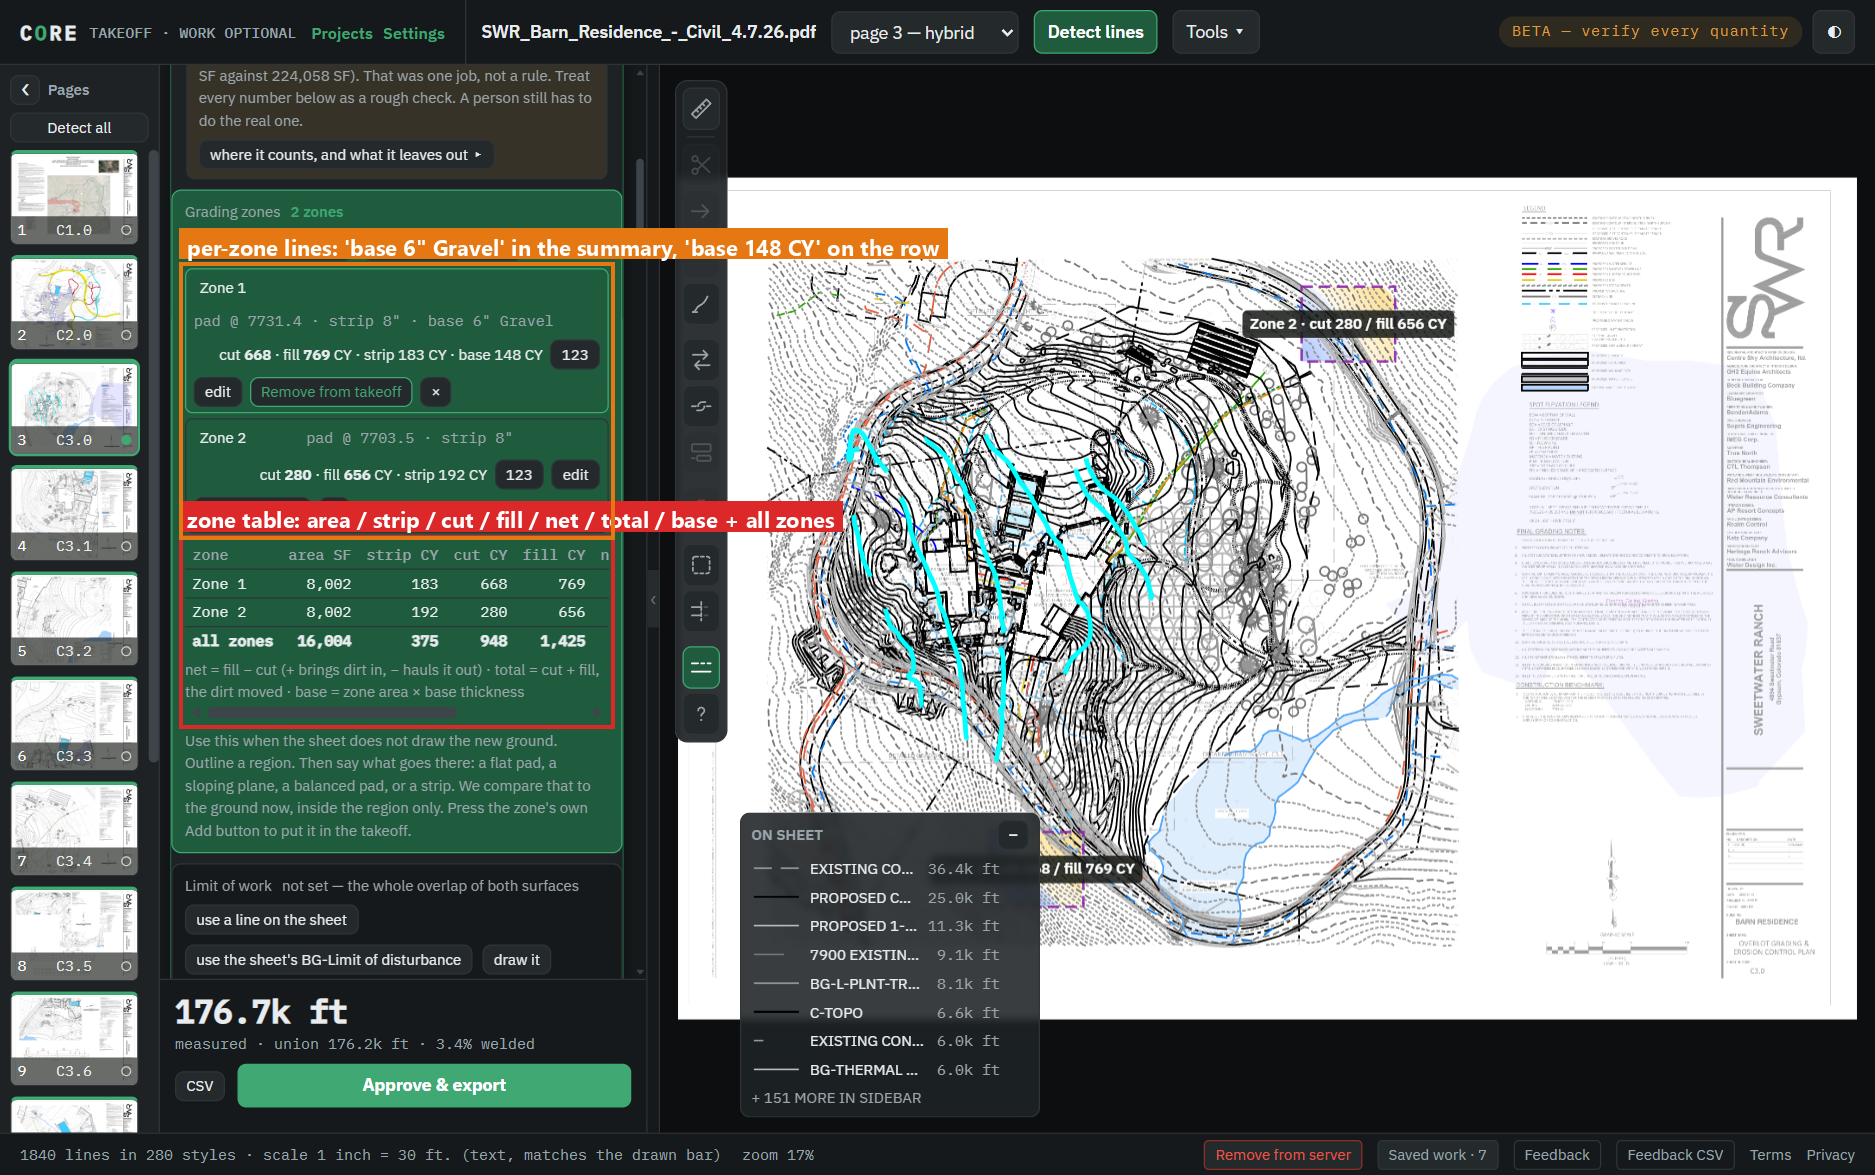
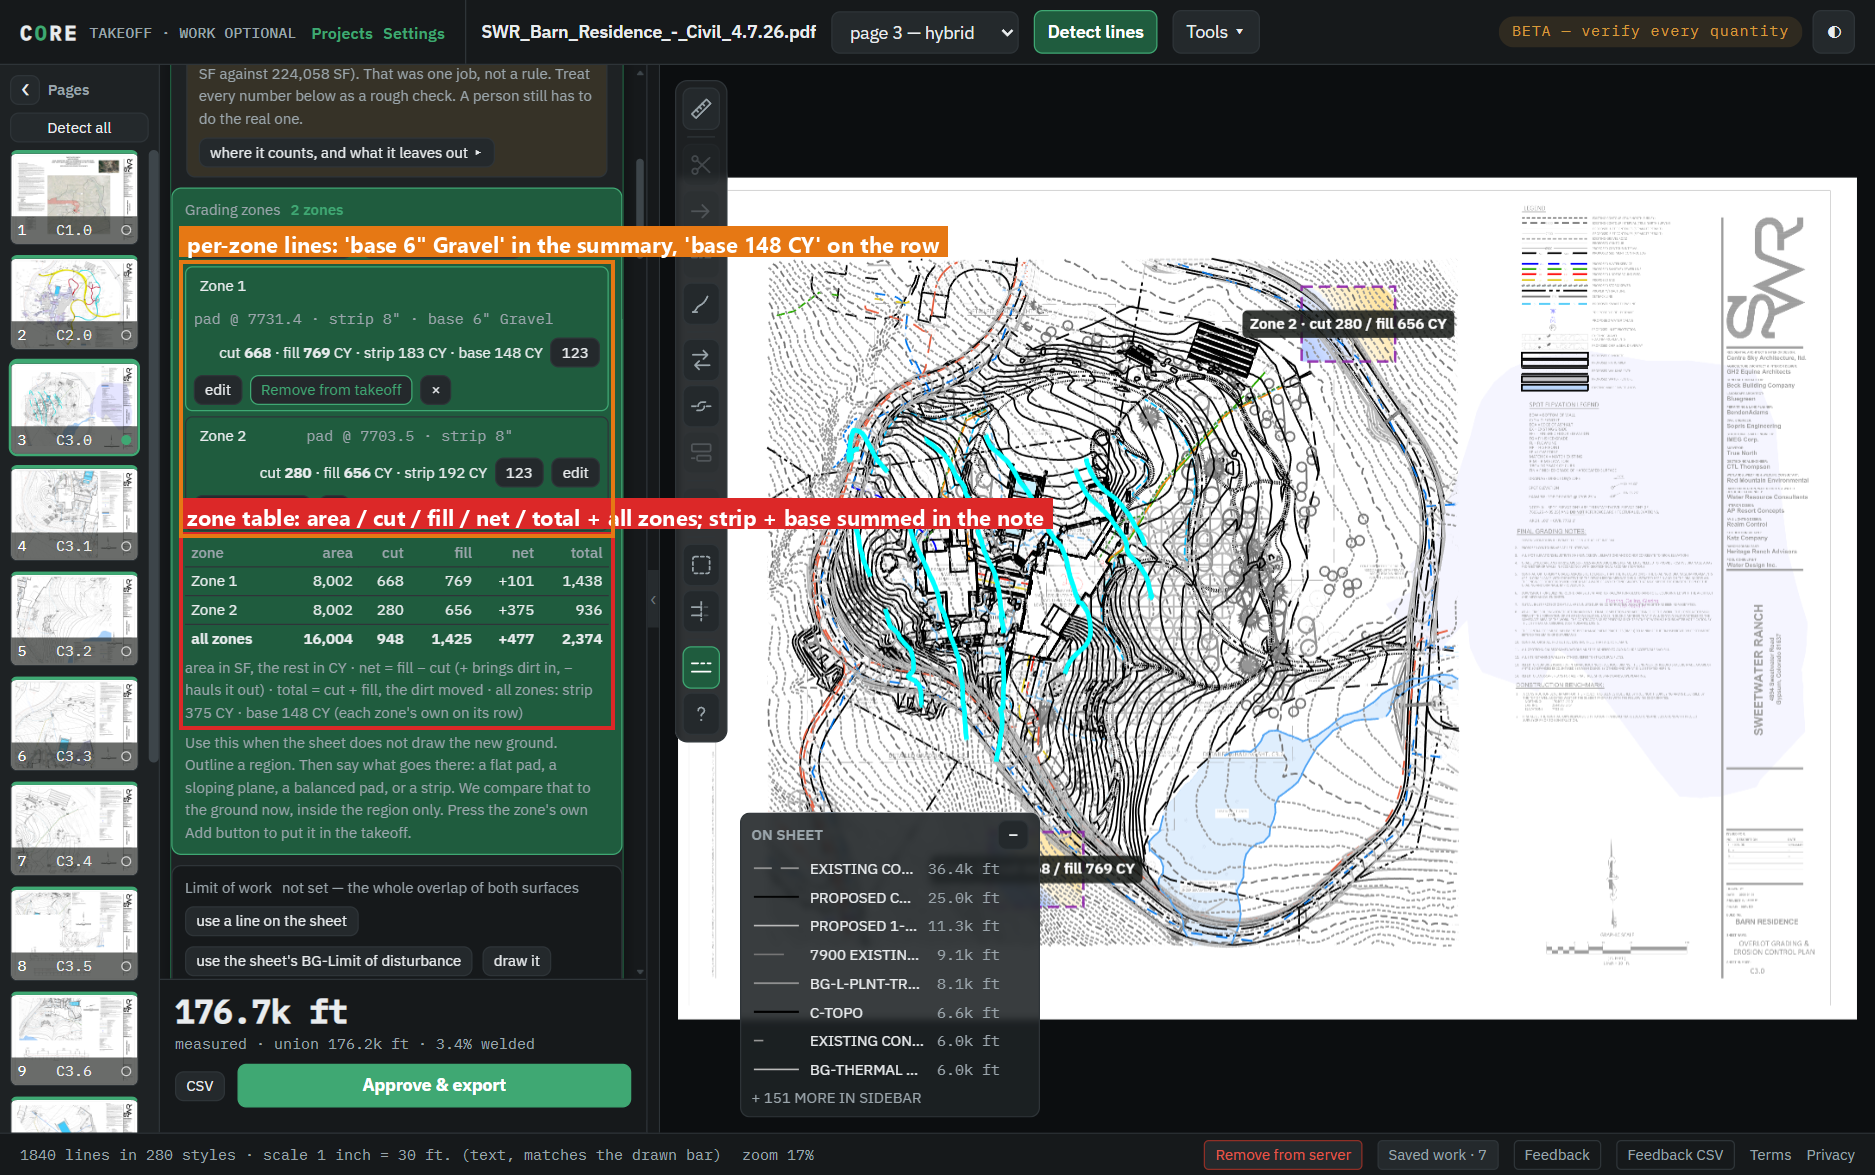
grading zones: fit the zone table in the panel
The first headed capture showed the seven-column table overflowing the
340 px panel: net, total and base hidden behind a scrollbar - the worst
kind of table, one that hides its point. Now Beaumont's own five columns
(area, cut, fill, net, total) with short headers and the UI font's
tabular digits; the strip and the base stay on each zone's row line and
in its takeoff rows, and the note under the table carries their all-zones
sums. Recaptured: fits with room (Z6). app.js v=182.

Changed region(s): [[0.0928, 0.0613, 0.5877, 0.8272]]

diff --git a/webui/app.js b/webui/app.js
@@ -22927,21 +22927,23 @@ function renderGz() {
   if (tbl) gzRenderTable(tbl, zs);
 }
 
-// ZONE TABLE - one line per computed zone (Beaumont's per-region sheet,
-// 2026-09-15): area, strip, cut, fill, net (fill - cut: + brings dirt in,
-// - hauls it out), total (cut + fill: the dirt moved) and the base course.
-// An all-zones row once there are two. Numbers come from each zone's own
-// result; nothing here is a stored figure.
+// ZONE TABLE - one line per computed zone, Beaumont's own five columns
+// (2026-09-15): area, cut, fill, net (fill - cut: + brings dirt in, - hauls
+// it out), total (cut + fill: the dirt moved). An all-zones row once there
+// are two. The strip and the base course sit on each zone's row line and in
+// its takeoff rows; the note under the table carries their all-zones sums.
+// Five numeric columns are what fits the panel (seven overflowed it -
+// measured 2026-09-16, net / total / base hidden behind a scrollbar).
+// Numbers come from each zone's own result; nothing here is a stored figure.
 function gzBaseCY(z) {
   return ((z.result && z.result.layers) || []).reduce((a, l) => a + Math.max(+l.volume_yd3 || 0, 0), 0);
 }
 function gzZoneCells(z) {
   const r = z.result;
   const cut = Math.max(r.cut_yd3, 0), fill = Math.max(r.fill_yd3, 0);
-  return [Number(r.zone_area_sf || r.area_sf || 0), Math.max(r.strip_yd3 || 0, 0),
-          cut, fill, fill - cut, cut + fill, gzBaseCY(z)];
+  return [Number(r.zone_area_sf || r.area_sf || 0), cut, fill, fill - cut, cut + fill];
 }
-const GZ_TABLE_COLS = ["area SF", "strip CY", "cut CY", "fill CY", "net CY", "total CY", "base CY"];
+const GZ_TABLE_COLS = ["area", "cut", "fill", "net", "total"];   // SF, then CY - the note says so
 function gzEsc(s) {
   return String(s).replace(/[&<>"]/g, ch => ({ "&": "&amp;", "<": "&lt;", ">": "&gt;", '"': "&quot;" }[ch]));
 }
@@ -22953,20 +22955,23 @@ function gzRenderTable(tbl, zs) {
   if (!done.length) { tbl.hidden = true; tbl.innerHTML = ""; return; }
   tbl.hidden = false;
   const tot = GZ_TABLE_COLS.map(() => 0);
-  const line = (name, c, cls) => `<tr${cls ? ` class="${cls}"` : ""}><td>${gzEsc(name)}</td>`
-    + c.map((v, i) => `<td class="num">${i === 4 ? gzNet(v) : ewCY(v)}</td>`).join("") + `</tr>`;
-  let rows = "";
+  const line = (name, c, cls) => `<tr${cls ? ` class="${cls}"` : ""}><td title="${gzEsc(name)}">${gzEsc(name)}</td>`
+    + c.map((v, i) => `<td class="num">${i === 3 ? gzNet(v) : ewCY(v)}</td>`).join("") + `</tr>`;
+  let rows = "", strip = 0, base = 0;
   for (const z of done) {
     const c = gzZoneCells(z);
     c.forEach((v, i) => { tot[i] += v; });
+    strip += Math.max(z.result.strip_yd3 || 0, 0);
+    base += gzBaseCY(z);
     rows += line(z.name, c);
   }
   if (done.length > 1) rows += line("all zones", tot, "gz-tot");
   const missing = zs.length - done.length;
   tbl.innerHTML = `<table><thead><tr><th>zone</th>`
     + GZ_TABLE_COLS.map(h => `<th class="num">${h}</th>`).join("") + `</tr></thead><tbody>${rows}</tbody></table>`
-    + `<div class="gz-m-note">net = fill \u2212 cut (+ brings dirt in, \u2212 hauls it out) \u00b7 total = cut + fill, the dirt moved`
-    + ` \u00b7 base = zone area \u00d7 base thickness`
+    + `<div class="gz-m-note">area in SF, the rest in CY \u00b7 net = fill \u2212 cut (+ brings dirt in, \u2212 hauls it out) \u00b7 total = cut + fill, the dirt moved`
+    + (done.length > 1 && (strip > 0 || base > 0)
+        ? ` \u00b7 all zones: strip ${ewCY(strip)} CY \u00b7 base ${ewCY(base)} CY (each zone's own on its row)` : "")
     + (missing > 0 ? ` \u00b7 <span class="gz-err">${missing} zone${missing === 1 ? "" : "s"} not computed - not in this table</span>` : "")
     + `</div>`;
 }

diff --git a/tests/test_zone_base.js b/tests/test_zone_base.js
@@ -2,7 +2,8 @@
 // 2026-09-15). The modal asks for a base (thickness + name), the request
 // carries it as proposed_layers, the zone's rows gain "<zone> place <name>",
 // calcstate keeps it, and the panel renders one table over all zones
-// (area / strip / cut / fill / net / total / base, all-zones row).
+// (area / cut / fill / net / total, all-zones row; strip and base on each
+// zone's row line and summed in the note - seven columns overflowed the panel).
 //
 // run: node tests/test_zone_base.js   (fails on 86abed9)
 "use strict";
@@ -64,10 +65,14 @@ H.gzClearItems(z);
 check(!state.extraItems.some(i => /^Pad A/.test(i.label)) && state.extraItems.length === 1, "Remove clears all four by exact label");
 
 // ---- the table ----
-check(JSON.stringify(H.gzZoneCells(z)) === JSON.stringify([10000, 0, 185.2, 0, -185.2, 185.2, 185.2]), "cells: area, strip, cut, fill, net (fill - cut), total (cut + fill), base");
+check(JSON.stringify(H.gzZoneCells(z)) === JSON.stringify([10000, 185.2, 0, -185.2, 185.2]), "cells: area, cut, fill, net (fill - cut), total (cut + fill) - Beaumont's five");
+check(H.gzBaseCY(z) === 185.2, "the base is read off the zone's layers for the row line and the all-zones note");
+check(/all zones: strip \$\{ewCY\(strip\)\} CY \\u00b7 base \$\{ewCY\(base\)\} CY/.test(js), "the note under the table sums strip and base over all zones");
+check(/\.gz-table td:first-child \{ max-width: 76px; overflow: hidden; text-overflow: ellipsis; \}/.test(css), "a long zone name truncates instead of pushing the numbers out of the panel");
 check(H.gzNet(-185.2) === "−185" && H.gzNet(40) === "+40" && H.gzNet(0.2) === "0", "net carries its sign (+ in, - out)");
 check(H.gzEsc('<b>&"') === "&lt;b&gt;&amp;&quot;", "zone names are escaped into the table");
-check(/const GZ_TABLE_COLS = \["area SF", "strip CY", "cut CY", "fill CY", "net CY", "total CY", "base CY"\];/.test(js), "the seven columns");
+check(/const GZ_TABLE_COLS = \["area", "cut", "fill", "net", "total"\];/.test(js) && /area in SF, the rest in CY/.test(js), "the five columns with the units in the note (seven overflowed the panel, and unit-suffixed headers still clipped)");
+check(!/\.gz-table table \{[^}]*var\(--mono\)/.test(css), "the table uses the UI font (narrower digits) with tabular numbers, not mono");
 check(/if \(done\.length > 1\) rows \+= line\("all zones", tot, "gz-tot"\);/.test(js), "an all-zones row once there are two");
 check(/<div id="gzTable" class="gz-table" hidden><\/div>/.test(html) && !/id="gzTotals"/.test(html) && !/\$\("gzTotals"\)/.test(js), "the table replaces the old totals line");
 check(/\.gz-table th\.num, \.gz-table td\.num \{ text-align: right; font-variant-numeric: tabular-nums; \}/.test(css), "numbers right-aligned, tabular");

diff --git a/webui/style.css b/webui/style.css
@@ -1720,8 +1720,9 @@ main.sv-open #pageStrip, main.sv-open #sidebar, main.sv-open #stage {
 /* ZONE TABLE: one line per zone - area, strip, cut, fill, net, total, base -
    with an all-zones row once there are two (Beaumont's per-region sheet) */
 .gz-table { margin-top: 6px; overflow-x: auto; }
-.gz-table table { border-collapse: collapse; font-size: var(--t-fs-xs); font-family: var(--mono); width: 100%; }
-.gz-table th, .gz-table td { padding: 2px 6px; border-bottom: 1px solid var(--line); white-space: nowrap; }
+.gz-table table { border-collapse: collapse; font-size: var(--t-fs-xs); width: 100%; }
+.gz-table th, .gz-table td { padding: 2px 5px; border-bottom: 1px solid var(--line); white-space: nowrap; }
+.gz-table td:first-child { max-width: 76px; overflow: hidden; text-overflow: ellipsis; }
 .gz-table th { color: var(--dim); font-weight: 500; text-align: left; }
 .gz-table th.num, .gz-table td.num { text-align: right; font-variant-numeric: tabular-nums; }
 .gz-table tr.gz-tot td { font-weight: 600; border-bottom: none; }

diff --git a/webui/index.html b/webui/index.html
@@ -1255,6 +1255,6 @@
 </div>
 <datalist id="legendVocab"></datalist>
 <script src="ew_defaults.js?v=1"></script>
-<script src="app.js?v=181"></script>
+<script src="app.js?v=182"></script>
 </body>
 </html>

diff --git a/out/verify/2026-09-16/zone-base/VERIFY.md b/out/verify/2026-09-16/zone-base/VERIFY.md
@@ -19,10 +19,16 @@ first corner) were placed where the sheet's existing contours cross them
 | step | readback | expected |
 |---|---|---|
 | Zone 1 modal: pad at the existing mean 7731.4, strip 8″ (default), base **6 in of Gravel** | live line: "cut 669 CY · fill 770 CY · net 101 CY … base 6″ Gravel over 8,002 SF = **148 CY** — the cut / fill above are figured to the subgrade, 0.5 ft below the elevation typed" (`Z1-modal-base-annot.png`) | 8,002 × (6/12) / 27 = 148.2 CY ✓; subgrade offset 0.5 ft ✓ |
-| Save | zone row summary "pad @ 7731.4 · strip 8" · base 6" Gravel"; row line "cut 669 · fill 770 CY · strip 183 CY · base 148 CY"; `#gzTable` one line: Zone 1 · 8,002 · 183 · 669 · 770 · **+101** · 1,439 · 148 | net = fill − cut = +101 (bring in); total = cut + fill = 1,439 ✓ |
+| Save | zone row summary "pad @ 7731.4 · strip 8" · base 6" Gravel"; row line "cut 669 · fill 770 CY · strip 183 CY · base 148 CY"; `#gzTable` one line: Zone 1 · 8,002 SF · cut 669 · fill 770 · **net +101** · total 1,439 (strip 183 and base 148 stay on the row line) | net = fill − cut = +101 (bring in); total = cut + fill = 1,439 ✓ |
 | Add to takeoff | rows Zone 1 cut 669 · Zone 1 fill 770 · Zone 1 topsoil strip 183 · **Zone 1 place Gravel 148** CY (`Z4-takeoff-list-annot.png`) | the fourth row is the base |
-| Zone 2: pad 1 ft above its mean, no base | table gains Zone 2 (280 / 656 / +376 / 936 / base 0) and **all zones** 16,004 SF · 375 · 949 · 1,426 · +477 · 2,375 · 148 (`Z6-table-two-zones-annot.png`) | column sums ✓ |
+| Zone 2: pad 1 ft above its mean, no base | table gains Zone 2 (280 / 656 / +376 / 936) and **all zones** 16,004 SF · 949 · 1,426 · +477 · 2,375, note "all zones: strip 375 CY · base 148 CY" (`Z6-table-two-zones-annot.png`, taken after the fit fix below) | column sums ✓ |
 | Fresh open of the sheet | sidecar `gzones[0]` = base_in 6, base_name "Gravel"; both zones restore, recompute through the endpoint (layers Gravel 148.2 CY again), the table and the four rows come back | inputs persist, results never stored |
+
+The first table capture showed seven columns overflowing the 340 px panel
+(net / total / base hidden behind a scrollbar) — the table was cut to
+Beaumont's five columns (area, cut, fill, net, total) with strip and base on
+each zone's row line and summed in the note; `Z6-table-two-zones-annot.png`
+is the recapture and fits.
 
 After the reload Zone 1 reads cut 668 / fill 769 (was 669 / 770): the
 sidecar rounds drawn corners to 0.1 pt, so the cell grid shifts by a
@@ -34,6 +40,7 @@ Pinned by `tests/test_zone_base.py` (route: no base → nothing; 6 in base →
 finished 105.5; strip-only ignores the base; junk rows dropped) and
 `tests/test_zone_base.js` (gzBody / gzBase, modal inputs and collect, save,
 reopen, calcstate save + restore, four labels, Add/Remove rows, table cells,
-signed net, escaping, columns, all-zones row, CSS, hint, cache buster). Both
+signed net, escaping, the five columns, all-zones row + note, name truncation,
+CSS, cache buster). Both
 fail on 86abed9. Earthwork gate re-accepted for the fingerprint only
 (server.py moved; 238 baseline fields identical).

diff --git a/FINDINGS-2026-09-08.md b/FINDINGS-2026-09-08.md
@@ -418,9 +418,10 @@ TIN reaches; `subgrade_offset_ft` says how far down the earthwork stops).
 Client: modal base row (`#gzBaseIn`, `#gzBaseName`), live line says the
 base CY and the subgrade, rows gain "<zone> place <name>", calcstate keeps
 base_in / base_name, and `#gzTable` (replaces the old all-zones line)
-renders one line per computed zone - area / strip / cut / fill / net (+ in,
-- out) / total (cut + fill) / base - with an all-zones row once there are
-two. Tests `test_zone_base.{py,js}` (fail on 86abed9); headed on Barn
+renders one line per computed zone - Beaumont's five: area / cut / fill /
+net (+ in, - out) / total (cut + fill) - with an all-zones row once there
+are two; strip and base stay on each zone's row line and are summed in the
+note (seven columns overflowed the 340 px panel on the first capture). Tests `test_zone_base.{py,js}` (fail on 86abed9); headed on Barn
 C3.0 with two drawn zones: `out/verify/2026-09-16/zone-base/` (8,002 SF x
 0.5 ft / 27 = 148 CY of Gravel, dig 0.5 ft deeper, table + all-zones row,
 survives reload). Earthwork gate re-accepted for the fingerprint only.
